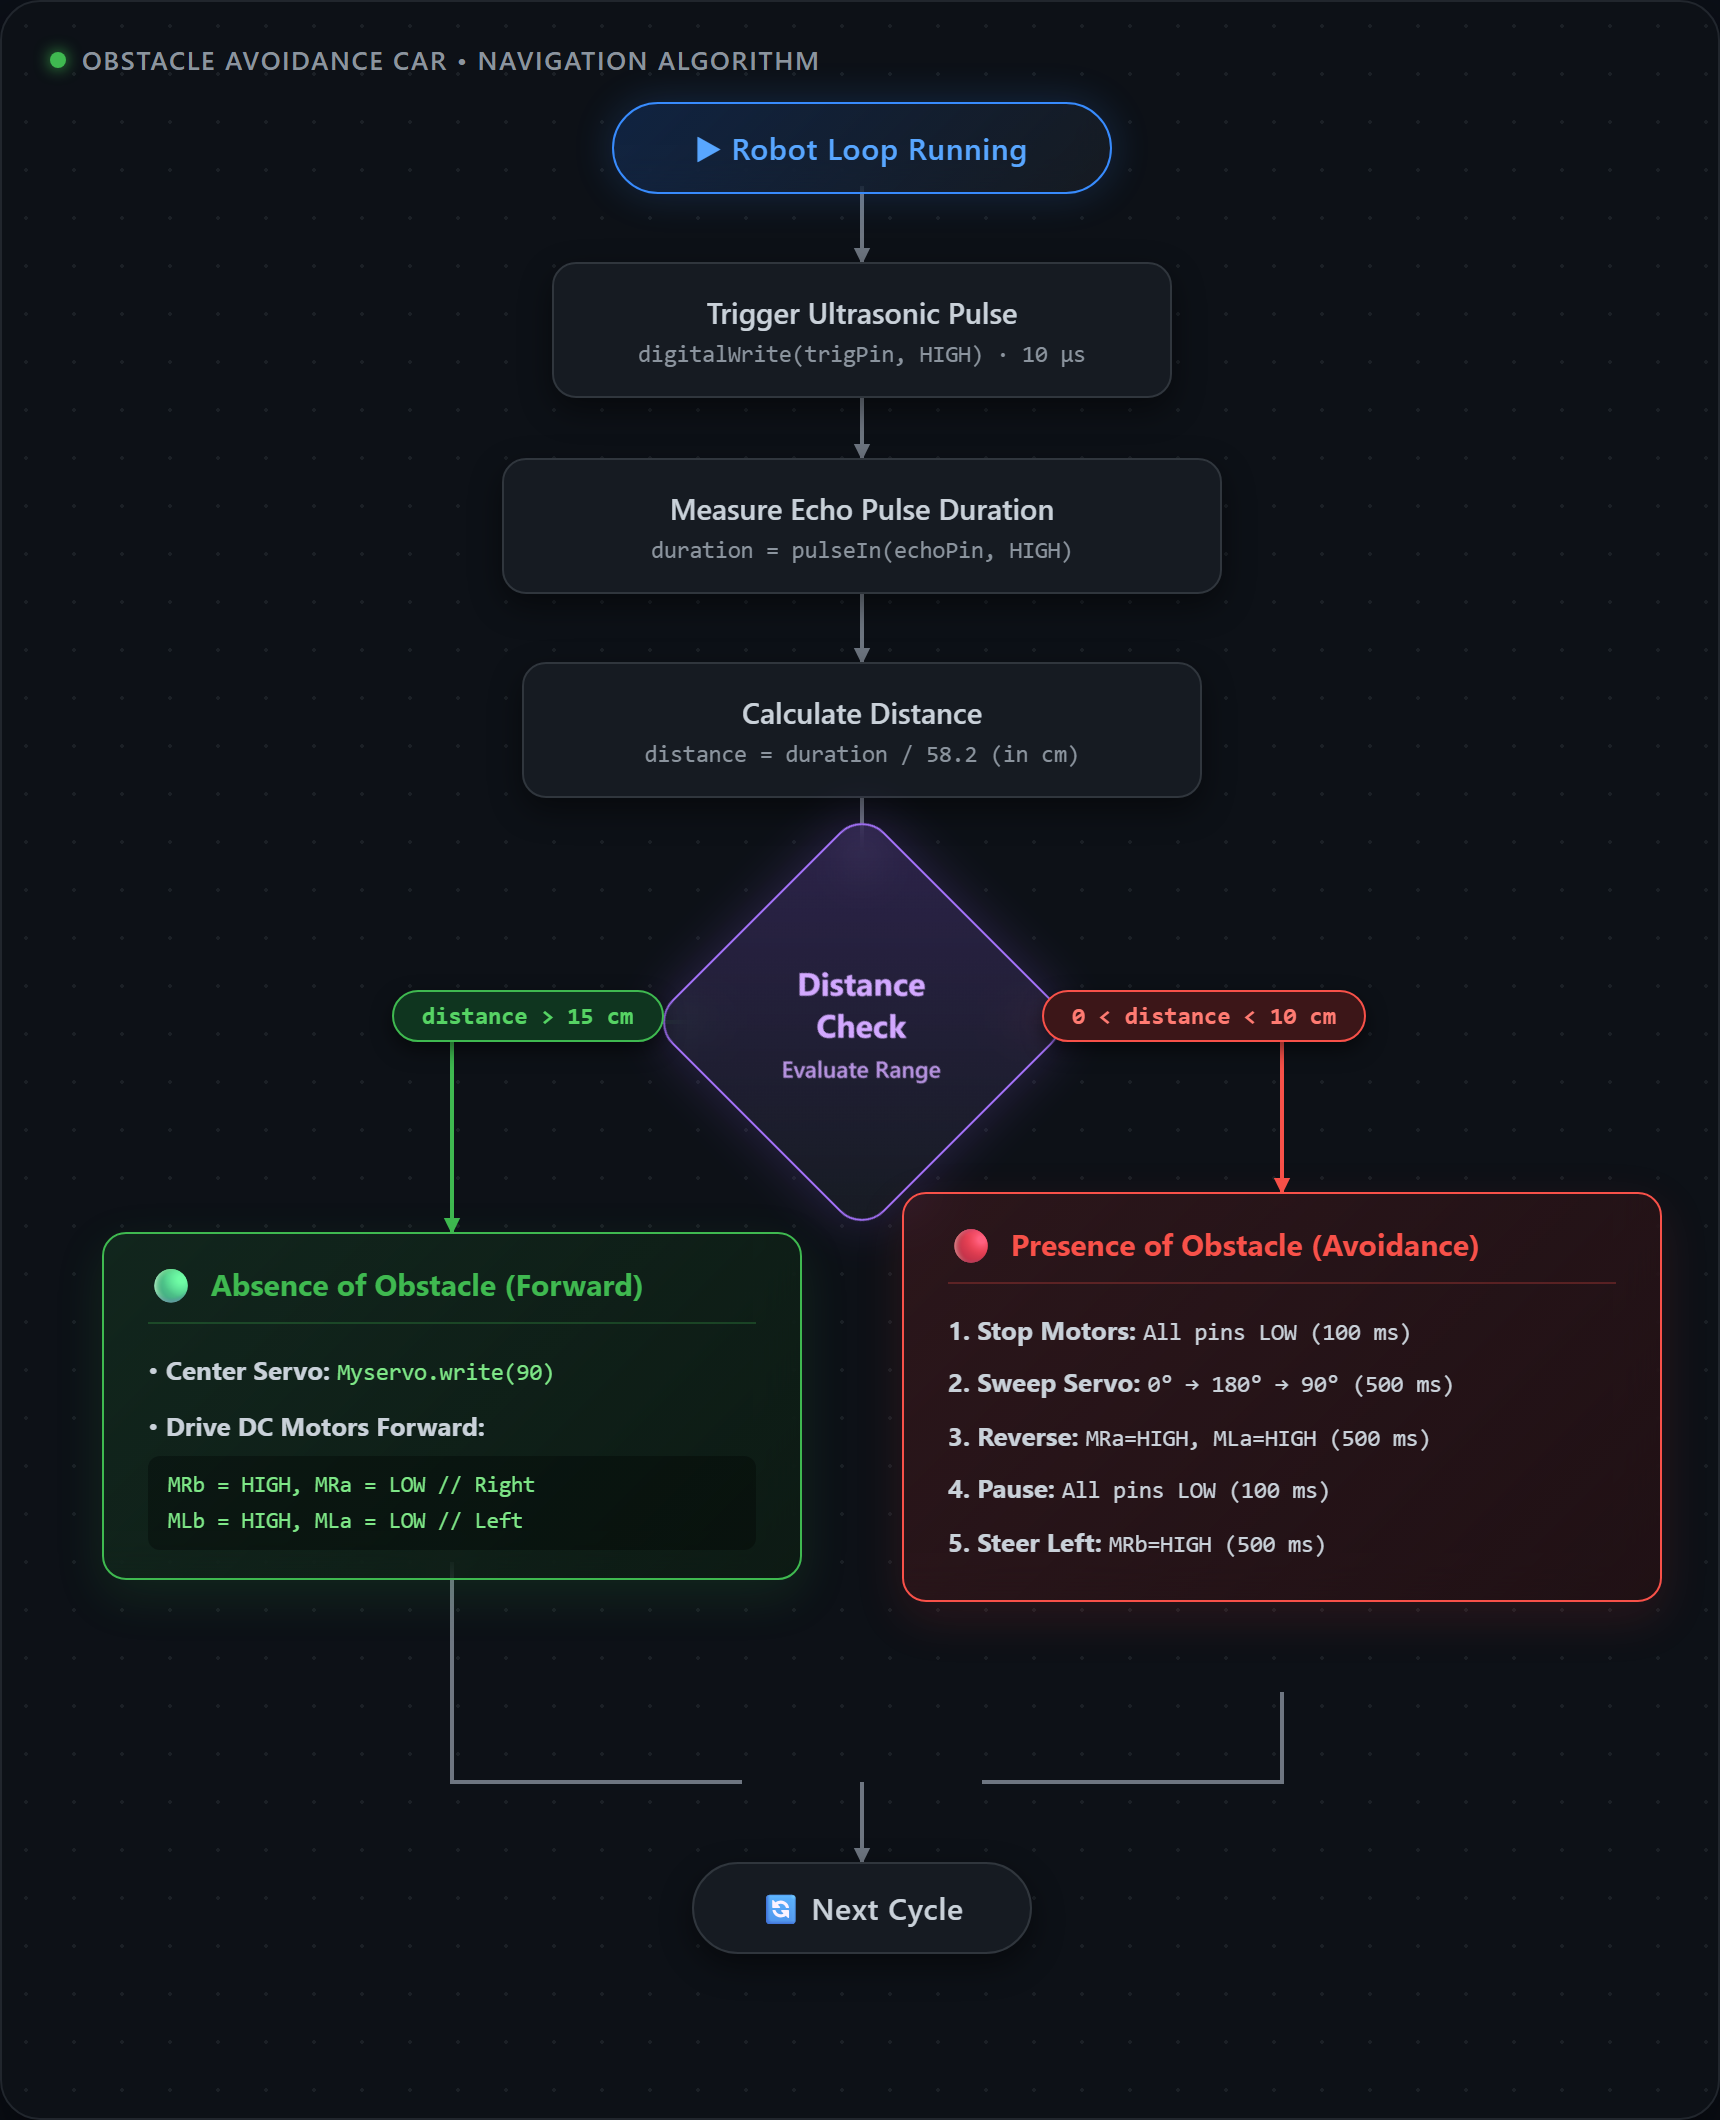
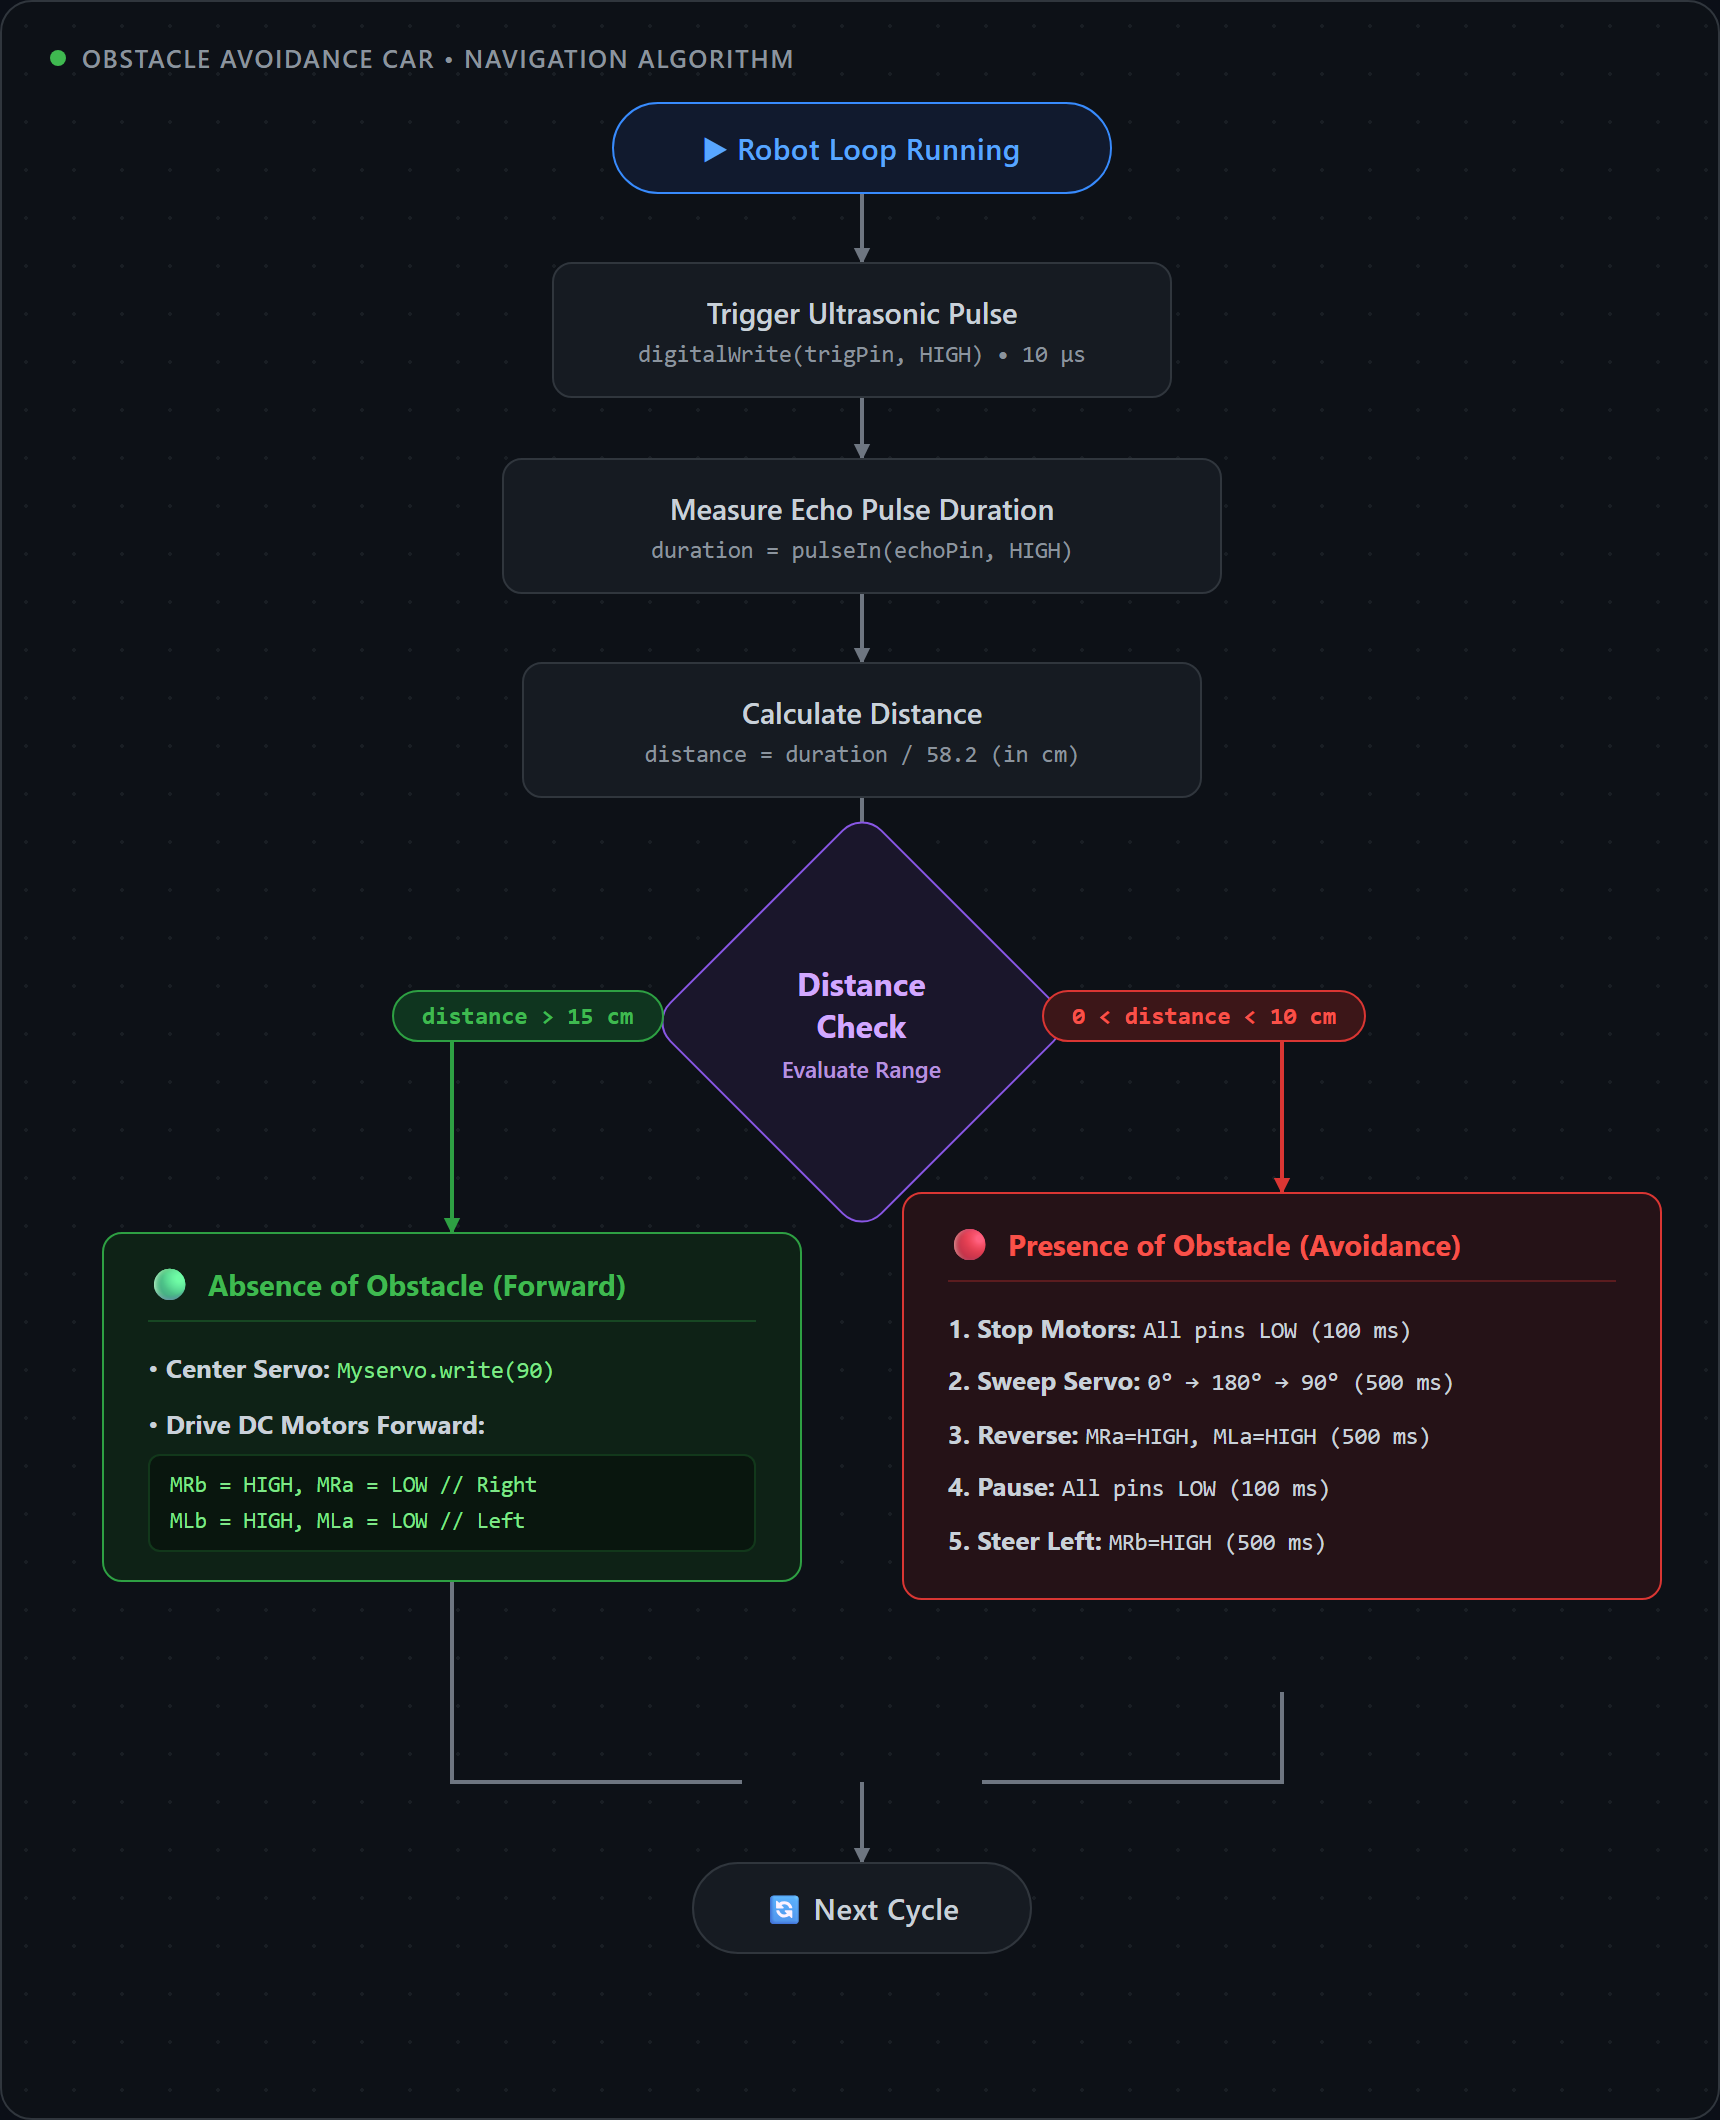
style(obstacle-robot): remove glow effects and add standalone flowchart.html

diff --git a/CS-Exhibition/Obstacle Avoidance Robot/flowchart.html b/CS-Exhibition/Obstacle Avoidance Robot/flowchart.html
@@ -1,0 +1,342 @@
+<!DOCTYPE html>
+<html lang="en">
+<head>
+  <meta charset="UTF-8">
+  <title>Obstacle Avoidance Robot - Navigation Algorithm Flowchart</title>
+  <style>
+    * {
+      box-sizing: border-box;
+      margin: 0;
+      padding: 0;
+    }
+
+    body {
+      background-color: #0b0f17;
+      font-family: -apple-system, BlinkMacSystemFont, 'Segoe UI', Roboto, Helvetica, Arial, sans-serif;
+      color: #e6edf3;
+      display: flex;
+      justify-content: center;
+      align-items: center;
+      min-height: 100vh;
+      padding: 40px;
+    }
+
+    /* Main Diagram Canvas (Flat, clean, matte) */
+    .canvas {
+      position: relative;
+      width: 860px;
+      height: 1060px;
+      background: #0d1117;
+      border: 1px solid #30363d;
+      border-radius: 16px;
+      overflow: hidden;
+    }
+
+    /* Subtle Dot Grid Background */
+    .grid-bg {
+      position: absolute;
+      top: 0;
+      left: 0;
+      width: 100%;
+      height: 100%;
+      background-image: radial-gradient(circle, #21262d 1px, transparent 1px);
+      background-size: 24px 24px;
+      opacity: 0.6;
+      z-index: 0;
+    }
+
+    /* SVG Connecting Arrows Layer */
+    svg.lines {
+      position: absolute;
+      top: 0;
+      left: 0;
+      width: 100%;
+      height: 100%;
+      z-index: 1;
+      pointer-events: none;
+    }
+
+    /* General Node Styling (Flat with crisp borders, zero glow) */
+    .node {
+      position: absolute;
+      z-index: 2;
+      border-radius: 10px;
+      padding: 14px 22px;
+      font-size: 14px;
+      text-align: center;
+      box-shadow: none;
+    }
+
+    .node-pill {
+      border-radius: 30px;
+      padding: 12px 28px;
+      font-weight: 600;
+      letter-spacing: 0.3px;
+      font-size: 14.5px;
+    }
+
+    .node-diamond {
+      width: 150px;
+      height: 150px;
+      display: flex;
+      align-items: center;
+      justify-content: center;
+      transform: rotate(45deg);
+      border-radius: 14px;
+      box-shadow: none;
+    }
+
+    .diamond-inner {
+      transform: rotate(-45deg);
+      text-align: center;
+      font-weight: 600;
+    }
+
+    .code-text {
+      font-family: 'JetBrains Mono', 'Fira Code', Consolas, 'Courier New', monospace;
+      font-size: 12px;
+      letter-spacing: -0.2px;
+    }
+
+    /* Color Themes - Clean, Matte, Zero Glow */
+    .theme-start {
+      background: #111a2e;
+      border: 1.5px solid #388bfd;
+      color: #58a6ff;
+    }
+
+    .theme-process {
+      background: #161b22;
+      border: 1.5px solid #30363d;
+      color: #c9d1d9;
+    }
+
+    .theme-decision {
+      background: #1a162b;
+      border: 1.5px solid #8957e5;
+      color: #d2a8ff;
+    }
+
+    .theme-clear {
+      background: #0e2216;
+      border: 1.5px solid #2ea043;
+      color: #e6edf3;
+      text-align: left;
+      width: 350px;
+    }
+
+    .theme-clear .header {
+      color: #3fb950;
+      font-weight: 700;
+      font-size: 14.5px;
+      margin-bottom: 12px;
+      display: flex;
+      align-items: center;
+      gap: 8px;
+      border-bottom: 1px solid rgba(46, 160, 67, 0.3);
+      padding-bottom: 8px;
+    }
+
+    .theme-obstacle {
+      background: #251217;
+      border: 1.5px solid #da3633;
+      color: #e6edf3;
+      text-align: left;
+      width: 380px;
+    }
+
+    .theme-obstacle .header {
+      color: #f85149;
+      font-weight: 700;
+      font-size: 14.5px;
+      margin-bottom: 12px;
+      display: flex;
+      align-items: center;
+      gap: 8px;
+      border-bottom: 1px solid rgba(218, 54, 51, 0.3);
+      padding-bottom: 8px;
+    }
+
+    .list-item {
+      font-size: 13px;
+      line-height: 1.7;
+      color: #c9d1d9;
+      margin-bottom: 4px;
+    }
+
+    /* Badges on Arrows */
+    .badge {
+      position: absolute;
+      z-index: 3;
+      font-size: 12px;
+      font-weight: 600;
+      padding: 5px 14px;
+      border-radius: 16px;
+      font-family: 'JetBrains Mono', Consolas, monospace;
+      box-shadow: none;
+    }
+
+    .badge-green {
+      background: #0f351f;
+      border: 1.5px solid #2ea043;
+      color: #3fb950;
+    }
+
+    .badge-red {
+      background: #3c1618;
+      border: 1.5px solid #da3633;
+      color: #f85149;
+    }
+
+    .sub-val {
+      color: #8b949e;
+      font-size: 12px;
+      margin-top: 4px;
+    }
+
+    .title-bar {
+      position: absolute;
+      top: 20px;
+      left: 24px;
+      font-size: 12.5px;
+      font-weight: 600;
+      letter-spacing: 0.8px;
+      color: #8b949e;
+      text-transform: uppercase;
+      display: flex;
+      align-items: center;
+      gap: 8px;
+    }
+
+    .title-bar span {
+      display: inline-block;
+      width: 8px;
+      height: 8px;
+      border-radius: 50%;
+      background: #3fb950;
+    }
+  </style>
+</head>
+<body>
+  <div class="canvas">
+    <div class="grid-bg"></div>
+
+    <div class="title-bar">
+      <span></span> Obstacle Avoidance Car &bull; Navigation Algorithm
+    </div>
+
+    <!-- Connecting SVG Paths & Arrows -->
+    <svg class="lines">
+      <defs>
+        <marker id="arrow-gray" viewBox="0 0 10 10" refX="6" refY="5" markerWidth="6" markerHeight="6" orient="auto-start-reverse">
+          <path d="M 0 1.5 L 7 5 L 0 8.5 z" fill="#6e7681" />
+        </marker>
+        <marker id="arrow-green" viewBox="0 0 10 10" refX="6" refY="5" markerWidth="6" markerHeight="6" orient="auto-start-reverse">
+          <path d="M 0 1.5 L 7 5 L 0 8.5 z" fill="#2ea043" />
+        </marker>
+        <marker id="arrow-red" viewBox="0 0 10 10" refX="6" refY="5" markerWidth="6" markerHeight="6" orient="auto-start-reverse">
+          <path d="M 0 1.5 L 7 5 L 0 8.5 z" fill="#da3633" />
+        </marker>
+      </defs>
+
+      <!-- Start -> Pulse -->
+      <path d="M 430 92 L 430 130" stroke="#6e7681" stroke-width="2" fill="none" marker-end="url(#arrow-gray)" />
+
+      <!-- Pulse -> ReadEcho -->
+      <path d="M 430 190 L 430 228" stroke="#6e7681" stroke-width="2" fill="none" marker-end="url(#arrow-gray)" />
+
+      <!-- ReadEcho -> CalcDist -->
+      <path d="M 430 292 L 430 330" stroke="#6e7681" stroke-width="2" fill="none" marker-end="url(#arrow-gray)" />
+
+      <!-- CalcDist -> Condition -->
+      <path d="M 430 395 L 430 435" stroke="#6e7681" stroke-width="2" fill="none" marker-end="url(#arrow-gray)" />
+
+      <!-- Condition -> ClearPath (Left Branch) -->
+      <path d="M 355 510 L 225 510 L 225 615" stroke="#2ea043" stroke-width="2" fill="none" marker-end="url(#arrow-green)" />
+
+      <!-- Condition -> ObstacleDetected (Right Branch) -->
+      <path d="M 505 510 L 640 510 L 640 595" stroke="#da3633" stroke-width="2" fill="none" marker-end="url(#arrow-red)" />
+
+      <!-- ClearPath -> Merge -->
+      <path d="M 225 780 L 225 890 L 370 890" stroke="#6e7681" stroke-width="2" fill="none" />
+
+      <!-- ObstacleDetected -> Merge -->
+      <path d="M 640 845 L 640 890 L 490 890" stroke="#6e7681" stroke-width="2" fill="none" />
+
+      <!-- Merge -> Next Cycle -->
+      <path d="M 430 890 L 430 930" stroke="#6e7681" stroke-width="2" fill="none" marker-end="url(#arrow-gray)" />
+    </svg>
+
+    <!-- Node 1: Start -->
+    <div class="node node-pill theme-start" style="top: 50px; left: 305px; width: 250px;">
+      ▶ Robot Loop Running
+    </div>
+
+    <!-- Node 2: Trigger Pulse -->
+    <div class="node theme-process" style="top: 130px; left: 275px; width: 310px;">
+      <div style="font-weight: 600; font-size: 14.5px;">Trigger Ultrasonic Pulse</div>
+      <div class="sub-val code-text">digitalWrite(trigPin, HIGH) &bull; 10 &micro;s</div>
+    </div>
+
+    <!-- Node 3: Measure Echo -->
+    <div class="node theme-process" style="top: 228px; left: 250px; width: 360px;">
+      <div style="font-weight: 600; font-size: 14.5px;">Measure Echo Pulse Duration</div>
+      <div class="sub-val code-text">duration = pulseIn(echoPin, HIGH)</div>
+    </div>
+
+    <!-- Node 4: Calculate Distance -->
+    <div class="node theme-process" style="top: 330px; left: 260px; width: 340px;">
+      <div style="font-weight: 600; font-size: 14.5px;">Calculate Distance</div>
+      <div class="sub-val code-text">distance = duration / 58.2 (in cm)</div>
+    </div>
+
+    <!-- Node 5: Distance Check Diamond -->
+    <div class="node node-diamond theme-decision" style="top: 435px; left: 355px;">
+      <div class="diamond-inner">
+        <div style="font-size: 16px; font-weight: 700;">Distance Check</div>
+        <div style="font-size: 11.5px; opacity: 0.85; margin-top: 4px;">Evaluate Range</div>
+      </div>
+    </div>
+
+    <!-- Branch Decision Badges -->
+    <div class="badge badge-green" style="top: 494px; left: 195px;">
+      distance &gt; 15 cm
+    </div>
+    <div class="badge badge-red" style="top: 494px; left: 520px;">
+      0 &lt; distance &lt; 10 cm
+    </div>
+
+    <!-- Node 6: Clear Path (Absence of Obstacle) -->
+    <div class="node theme-clear" style="top: 615px; left: 50px;">
+      <div class="header">
+        <span style="font-size: 16px;">🟢</span>
+        <span>Absence of Obstacle (Forward)</span>
+      </div>
+      <div class="list-item">&bull; <b>Center Servo:</b> <span class="code-text" style="color: #7ee787;">Myservo.write(90)</span></div>
+      <div class="list-item" style="margin-top: 6px;">&bull; <b>Drive DC Motors Forward:</b></div>
+      <div class="code-text" style="padding: 6px 10px; background: rgba(0, 0, 0, 0.35); border: 1px solid rgba(46, 160, 67, 0.25); border-radius: 6px; margin-top: 4px; color: #7ee787; font-size: 11.5px; line-height: 1.5;">
+        MRb = HIGH, MRa = LOW  // Right<br/>
+        MLb = HIGH, MLa = LOW  // Left
+      </div>
+    </div>
+
+    <!-- Node 7: Obstacle Detected (Reflex / Avoidance) -->
+    <div class="node theme-obstacle" style="top: 595px; left: 450px;">
+      <div class="header">
+        <span style="font-size: 16px;">🔴</span>
+        <span>Presence of Obstacle (Avoidance)</span>
+      </div>
+      <div class="list-item"><b>1. Stop Motors:</b> <span class="code-text">All pins LOW (100 ms)</span></div>
+      <div class="list-item"><b>2. Sweep Servo:</b> <span class="code-text">0&deg; &rarr; 180&deg; &rarr; 90&deg; (500 ms)</span></div>
+      <div class="list-item"><b>3. Reverse:</b> <span class="code-text">MRa=HIGH, MLa=HIGH (500 ms)</span></div>
+      <div class="list-item"><b>4. Pause:</b> <span class="code-text">All pins LOW (100 ms)</span></div>
+      <div class="list-item"><b>5. Steer Left:</b> <span class="code-text">MRb=HIGH (500 ms)</span></div>
+    </div>
+
+    <!-- Node 8: Next Cycle -->
+    <div class="node node-pill theme-process" style="top: 930px; left: 345px; width: 170px;">
+      🔄 Next Cycle
+    </div>
+  </div>
+</body>
+</html>
